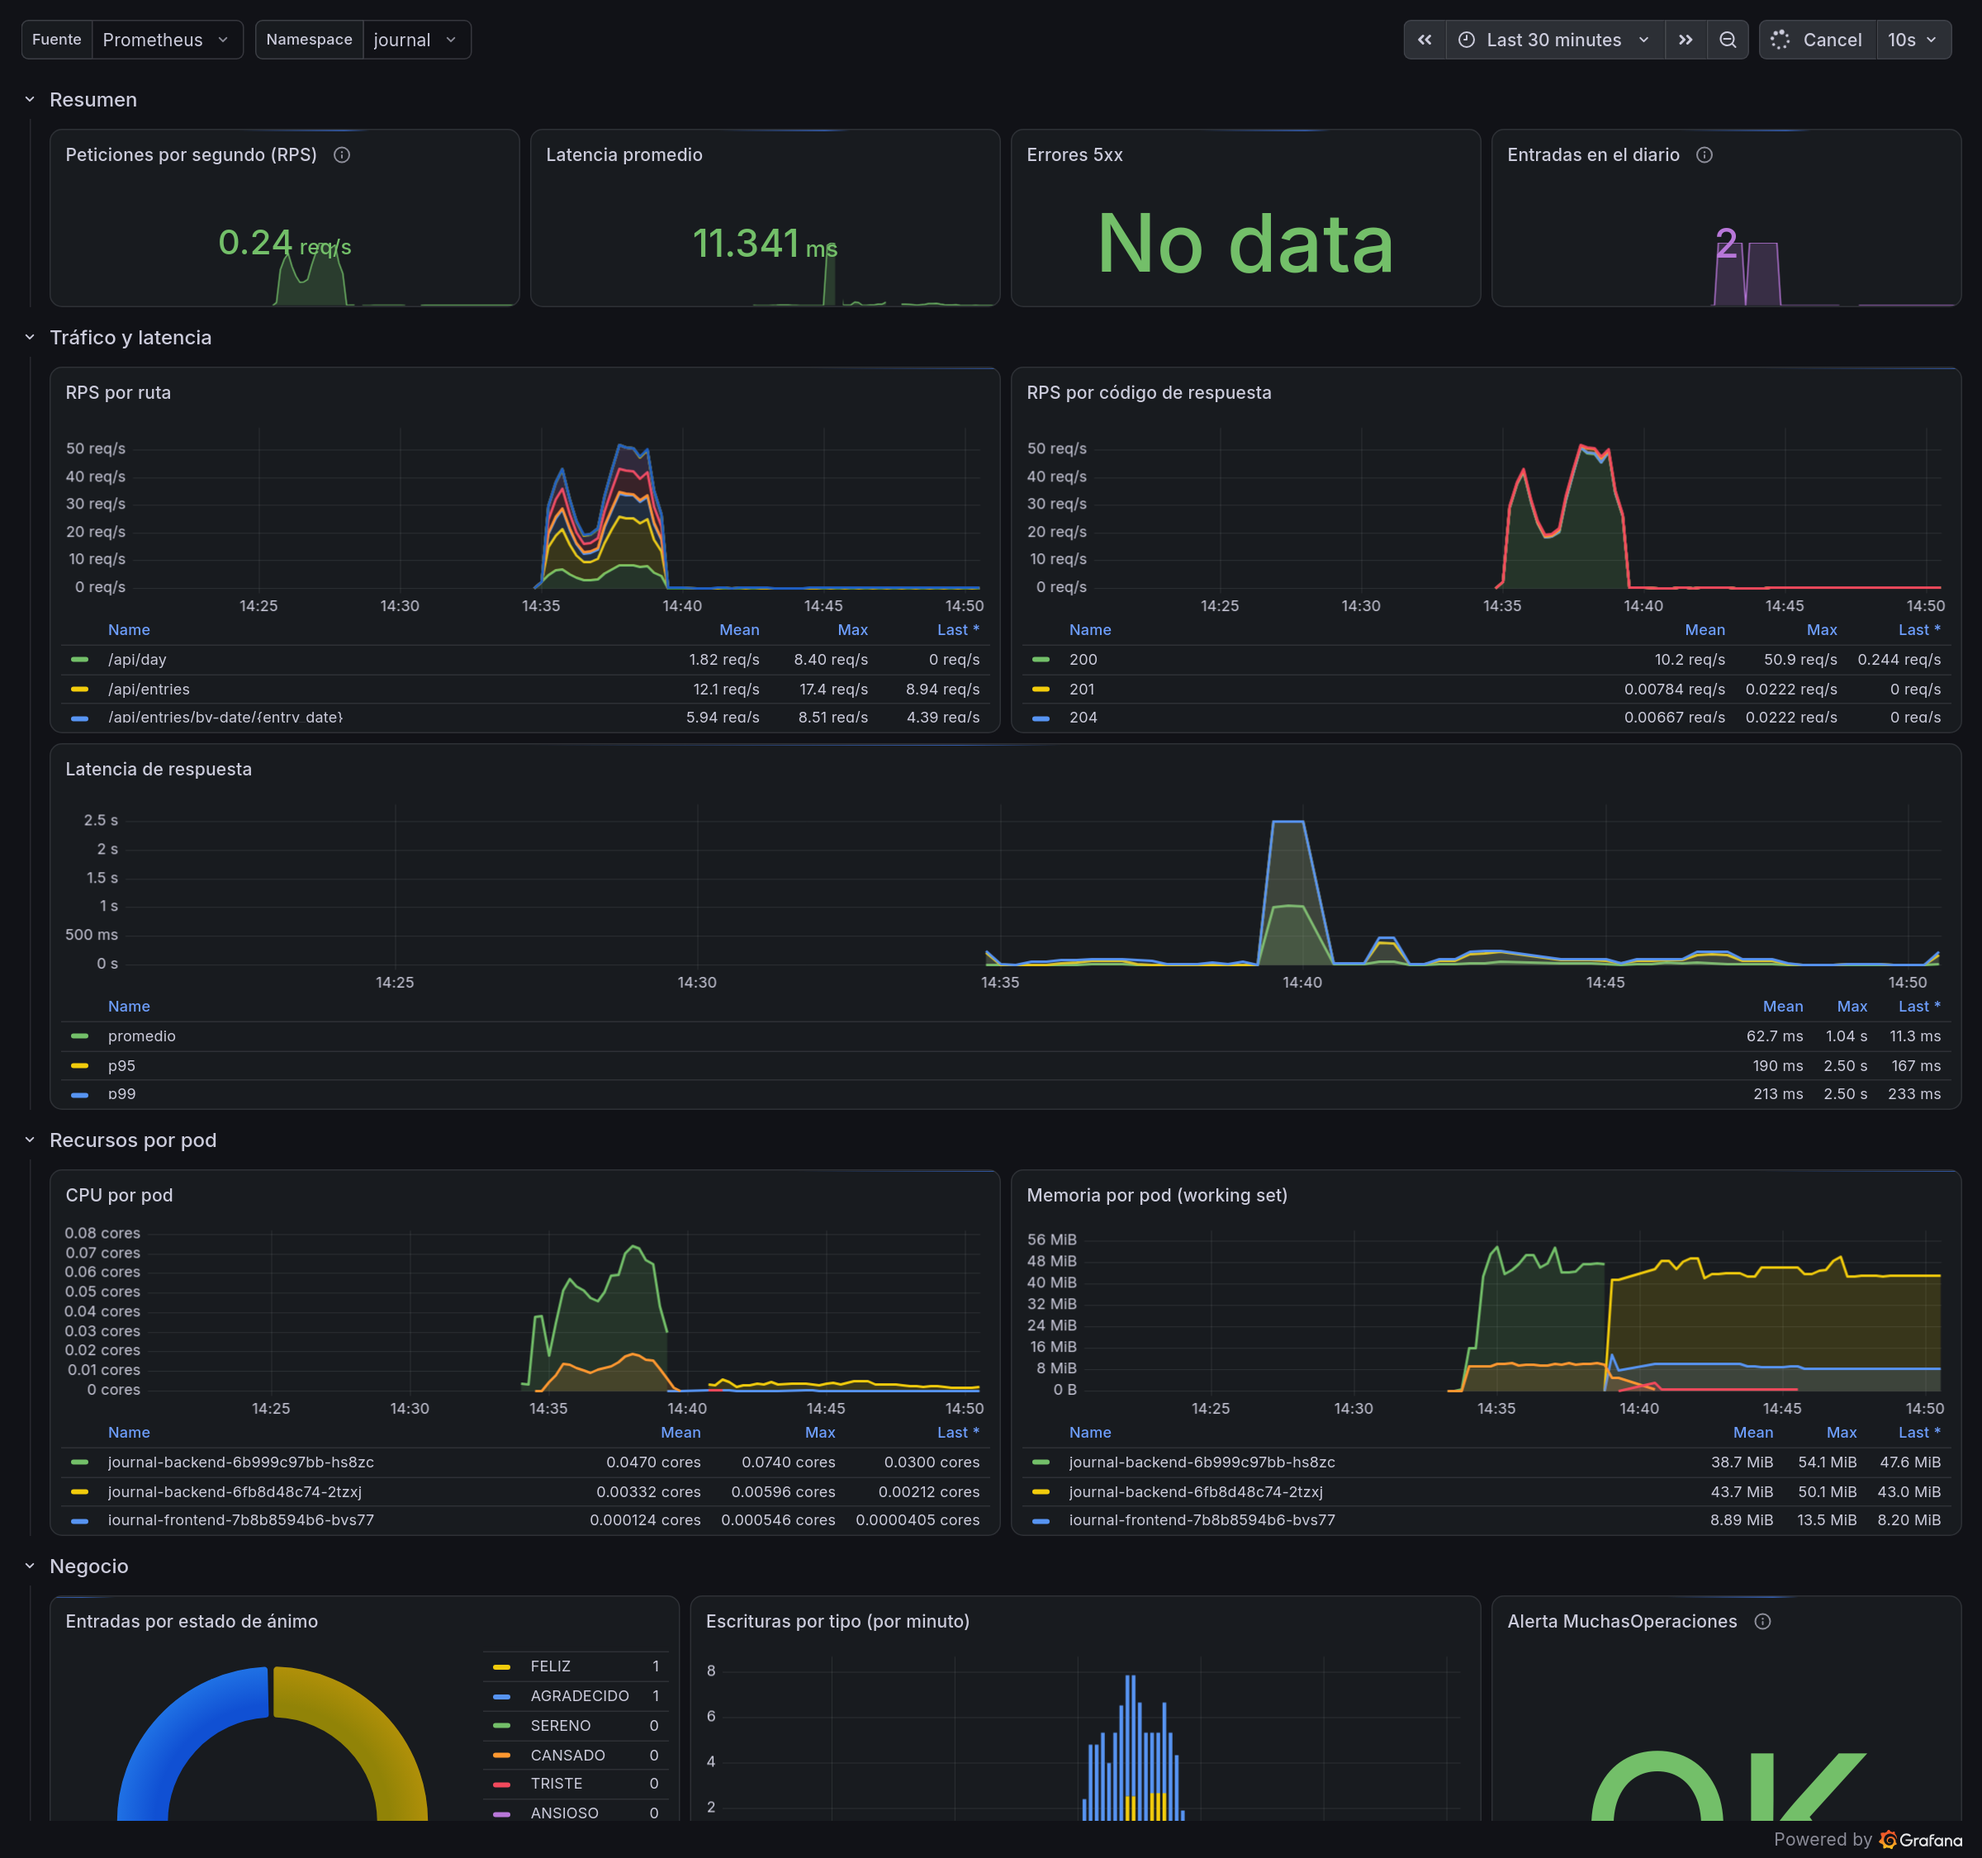
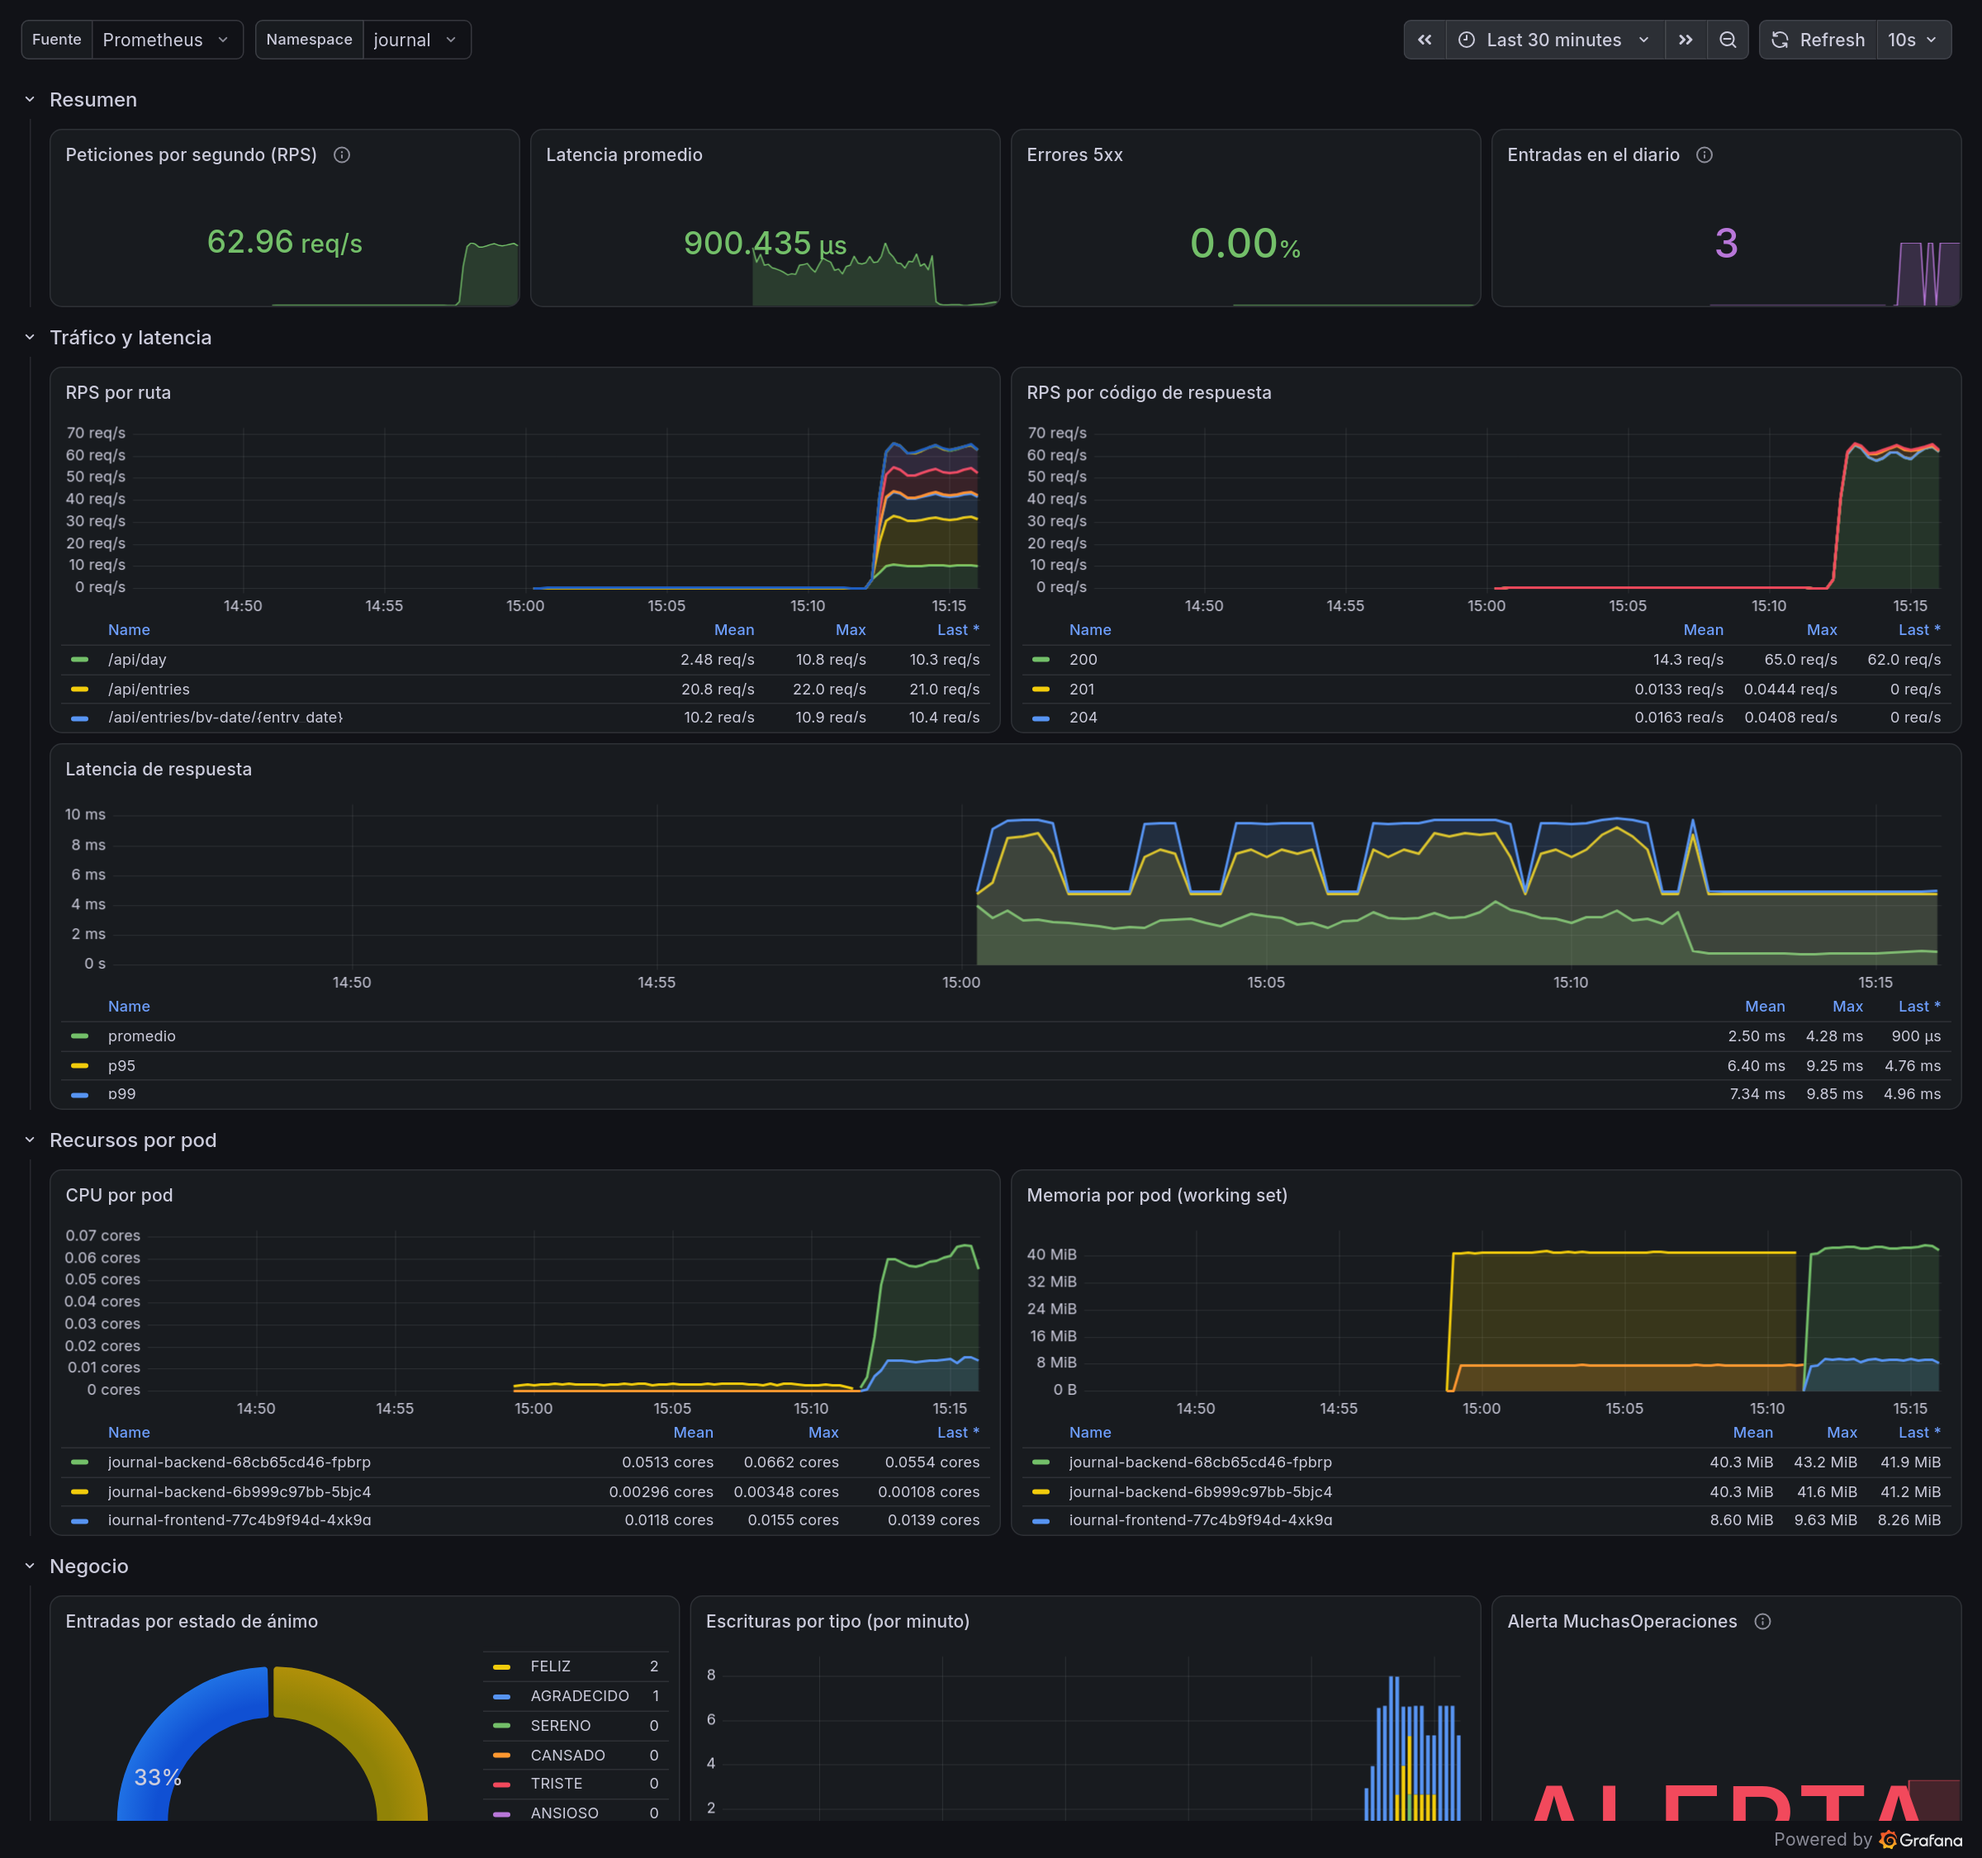
Actualiza las capturas y los resultados del informe con el cluster nuevo

diff --git a/README.md b/README.md
@@ -167,6 +167,8 @@ PIPELINE DETENIDO: Snyk encontró vulnerabilidades CRÍTICAS en las dependencias
 Finished: FAILURE
 ```
 
+Después de esas tres corridas hubo tres más. El build 4 falló en el despliegue por falta de memoria en Minikube y el 5 porque el job recién recreado todavía no tenía parámetros (los dos se explican en la sección de problemas). El build 6, sobre el cluster nuevo, terminó bien en 60 segundos.
+
 ![Vista de etapas en Jenkins](docs/img/jenkins-pipeline.png)
 
 ---
@@ -203,9 +205,13 @@ El dashboard está en [`grafana/dashboard.json`](grafana/dashboard.json). El set
 | Recursos por pod | CPU y memoria (working set) de cada pod del namespace |
 | Negocio | Entradas por estado de ánimo, escrituras por minuto según tipo, estado de la alerta |
 
-Para llenarlo usamos `scripts/load-traffic.sh`, que durante unos minutos simula usuarios leyendo, una persona escribiendo y editando la entrada del día, y algunas peticiones con errores (404 y 422). Durante la prueba Prometheus registró unas 27 peticiones por segundo.
+Para llenarlo usamos `scripts/load-traffic.sh`, que durante unos minutos simula usuarios leyendo, una persona escribiendo y editando la entrada del día, y algunas peticiones con errores (404 y 422). En la corrida de la captura el backend atendía unas 63 peticiones por segundo con una latencia promedio menor a 1 ms y un p99 de 5 ms, sin errores 5xx. Como el script hace más de 5 escrituras en 5 minutos, la alerta `MuchasOperaciones` pasó a ALERTA, que es lo esperado.
 
 ![Dashboard de Grafana](docs/img/grafana-dashboard.png)
+
+En Prometheus, el target que crea el `ServiceMonitor` aparece en estado `UP`:
+
+![Target del backend en Prometheus](docs/img/prometheus-targets.png)
 
 ---
 
@@ -309,6 +315,8 @@ El log completo con la descripción del evento está en [`reports/falco-event.lo
 **SlimToolkit no funciona con Docker 29.** Su cliente usa la versión 1.24 de la API de Docker, que ya no está soportada. Usamos Dive, que la letra acepta como alternativa.
 
 **La imagen oficial de Snyk no existe para arm64.** Funciona emulada pero es lenta. En Jenkins instalamos el binario de Snyk para arm64 directamente.
+
+**El primer build después de reiniciar Jenkins no tenía parámetros.** El job lo crea JCasC al arrancar, y los parámetros están definidos dentro del Jenkinsfile, así que Jenkins recién los conoce después de la primera corrida. En el build 5 la variable `ENTORNO` llegó vacía y Helm buscó un archivo `values-.yaml`. Ahora el Jenkinsfile usa `dev` cuando el parámetro no está.
 
 **Pequeños detalles del entorno.** Jenkins no podía usar el kubeconfig de la Mac, que apunta a `127.0.0.1`, y lo resolvimos conectándolo a la red de Minikube. El bash que trae macOS (3.2) falla con arrays vacíos cuando se usa `set -u`, y lo esquivamos con una expansión condicional en `setup.sh`. Y en el Lab 3 la descarga de reglas de Falco desde ghcr.io había devuelto error 429 (demasiados pedidos), así que seguimos con `falcoctl` apagado.
 
